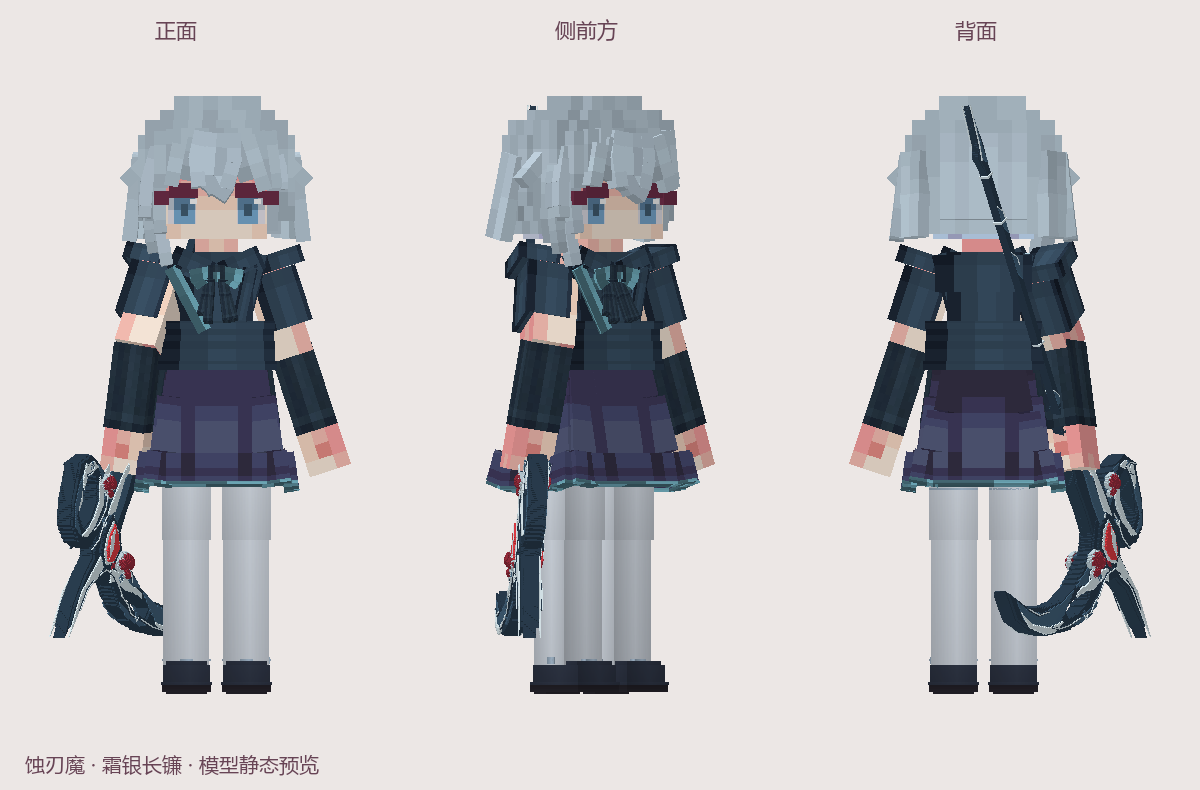
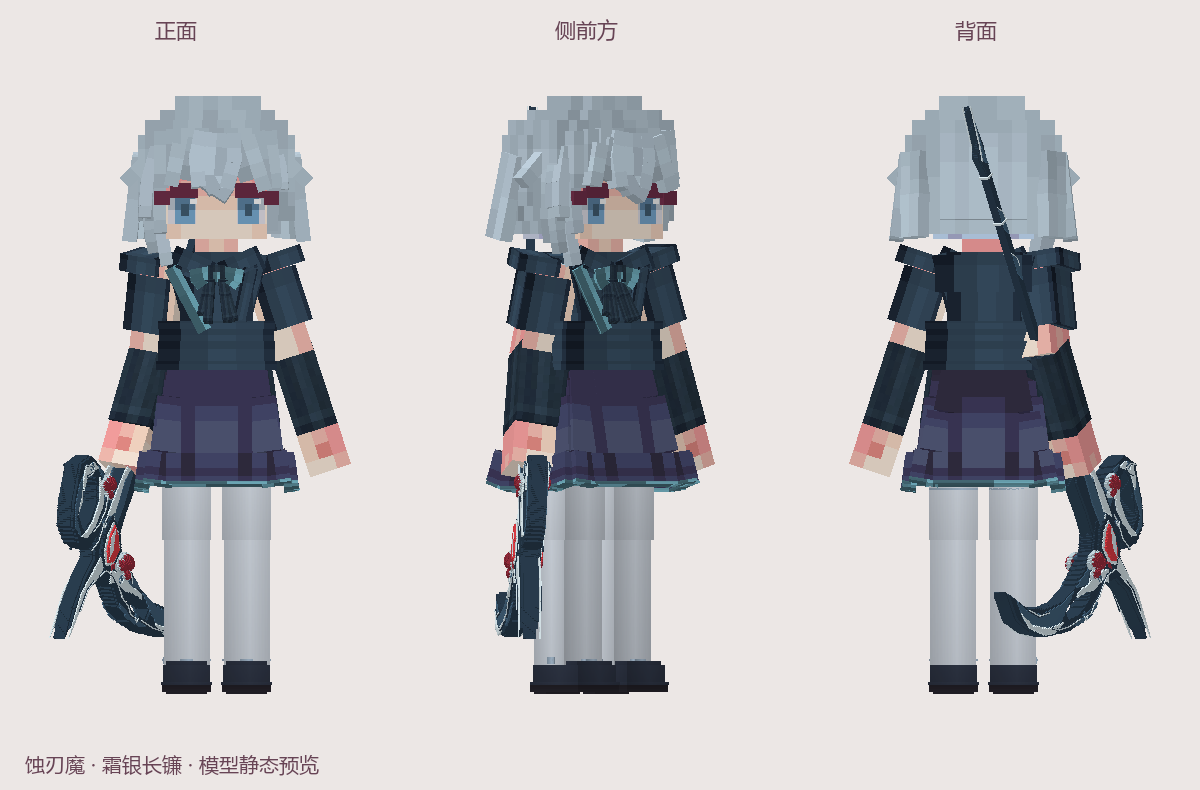
Correct Stahl gallery elbow using released idle pose

diff --git a/docs/模型图鉴.md b/docs/模型图鉴.md
@@ -4,7 +4,7 @@
 
 本页集中展示 10 套心智娘服装与 9 只灾厄的通常外观。每张图依次为正面、侧前方、背面，点击图片可查看原图。
 
-图片由当前发布附属的实际几何与材质静态渲染，不是概念图或游戏截图；没有播放动作控制器，持握、翅膀、特效等动态表现以游戏内为准。灾厄损伤及其他状态变体未在本页逐一列出。
+图片由当前发布附属的实际几何与材质静态渲染，不是概念图或游戏截图；未完整播放动作控制器；蚀刃魔持镰手臂已采样发布包待机姿势，避免基础骨架显示反向弯肘。翅膀、特效等动态表现以游戏内为准。灾厄损伤及其他状态变体未在本页逐一列出。
 
 [心智娘服装](#心智娘服装) · [九大灾厄](#九大灾厄)
 
